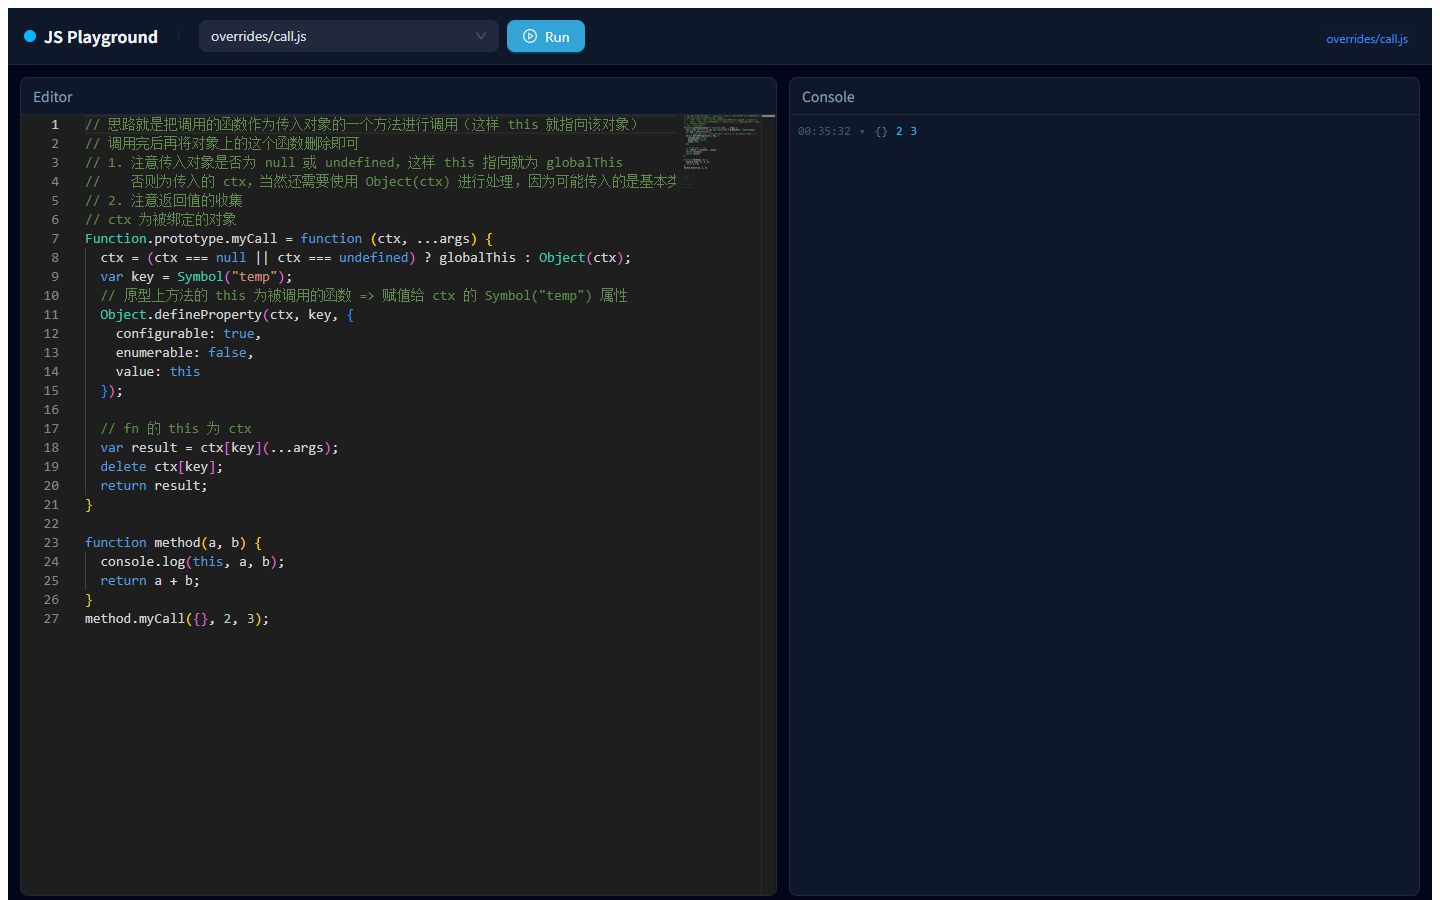
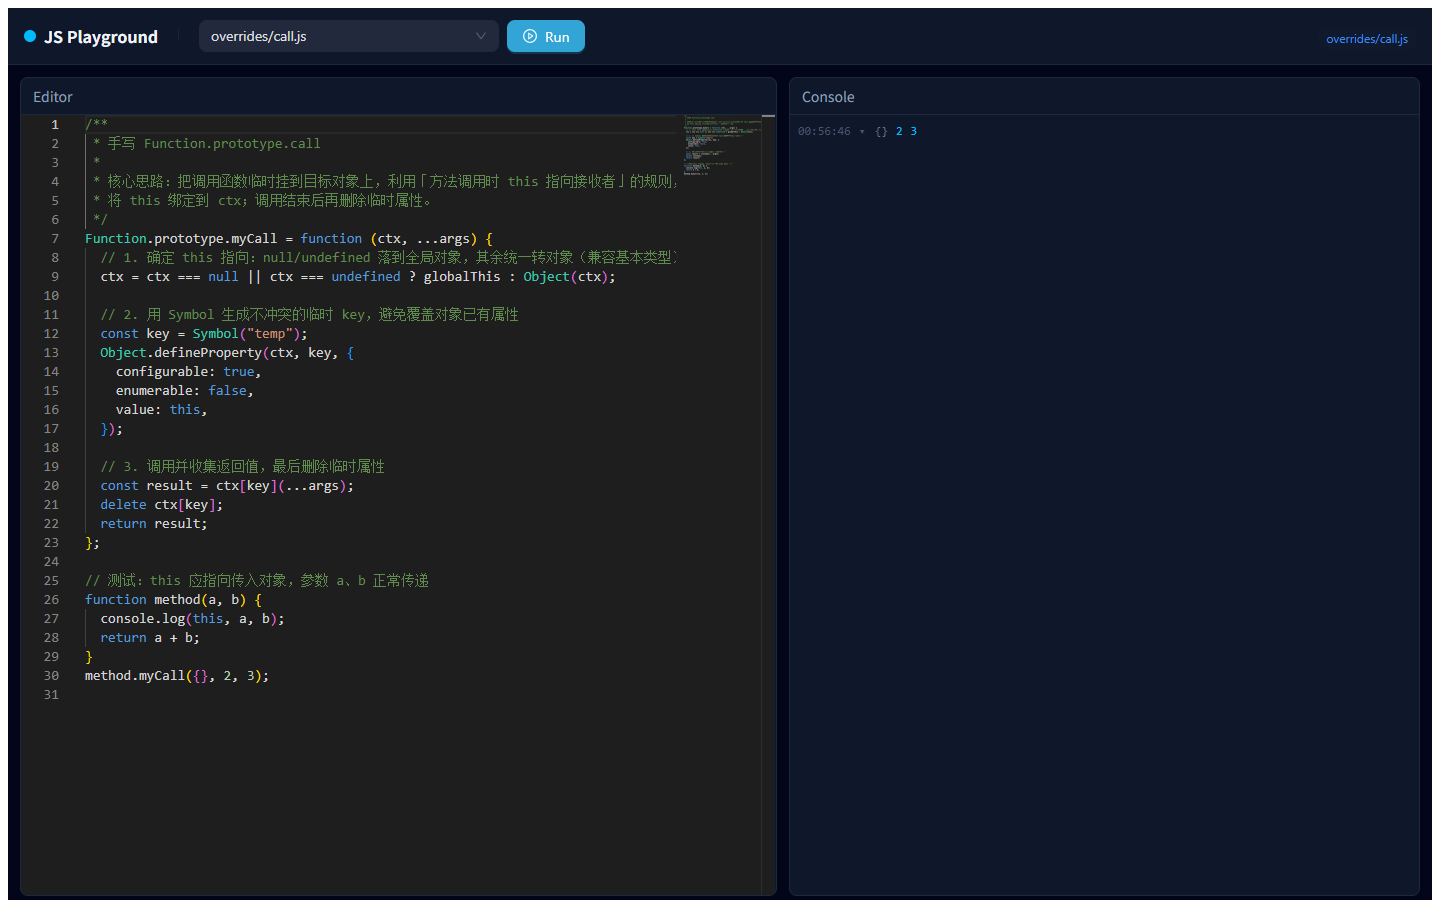
docs: reword default template comments and refresh README screenshot

diff --git a/src/template/overrides/call.js b/src/template/overrides/call.js
@@ -1,25 +1,28 @@
-// 思路就是把调用的函数作为传入对象的一个方法进行调用（这样 this 就指向该对象）
-// 调用完后再将对象上的这个函数删除即可
-// 1. 注意传入对象是否为 null 或 undefined，这样 this 指向就为 globalThis
-//    否则为传入的 ctx，当然还需要使用 Object(ctx) 进行处理，因为可能传入的是基本类型
-// 2. 注意返回值的收集
-// ctx 为被绑定的对象
+/**
+ * 手写 Function.prototype.call
+ *
+ * 核心思路：把调用函数临时挂到目标对象上，利用「方法调用时 this 指向接收者」的规则，
+ * 将 this 绑定到 ctx；调用结束后再删除临时属性。
+ */
 Function.prototype.myCall = function (ctx, ...args) {
-  ctx = (ctx === null || ctx === undefined) ? globalThis : Object(ctx);
-  var key = Symbol("temp");
-  // 原型上方法的 this 为被调用的函数 => 赋值给 ctx 的 Symbol("temp") 属性
+  // 1. 确定 this 指向：null/undefined 落到全局对象，其余统一转对象（兼容基本类型）
+  ctx = ctx === null || ctx === undefined ? globalThis : Object(ctx);
+
+  // 2. 用 Symbol 生成不冲突的临时 key，避免覆盖对象已有属性
+  const key = Symbol("temp");
   Object.defineProperty(ctx, key, {
     configurable: true,
     enumerable: false,
-    value: this
+    value: this,
   });
 
-  // fn 的 this 为 ctx
-  var result = ctx[key](...args);
+  // 3. 调用并收集返回值，最后删除临时属性
+  const result = ctx[key](...args);
   delete ctx[key];
   return result;
-}
+};
 
+// 测试：this 应指向传入对象，参数 a、b 正常传递
 function method(a, b) {
   console.log(this, a, b);
   return a + b;
